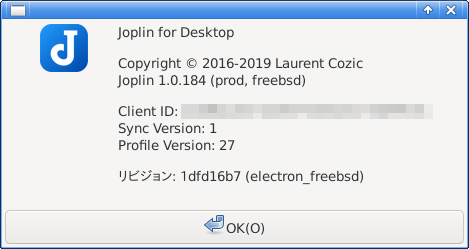
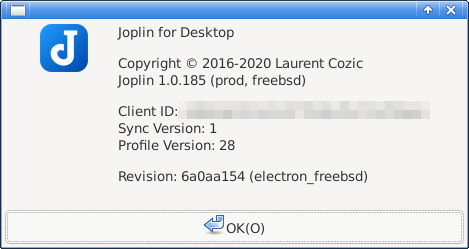
Update target Joplin version to 1.0.185.

diff --git a/playing-with-bsd/application/howto-use-joplin-on-freebsd/index.html b/playing-with-bsd/application/howto-use-joplin-on-freebsd/index.html
@@ -8,11 +8,11 @@
   <meta name="twitter:title" content="How to use Joplin desktop app on FreeBSD - genneko" />
   <meta name="description" content="This is a quick note on how I build and use the latest Joplin desktop app on FreeBSD.
 For my initial exploration of Joplin on FreeBSD, please refer to the previous post.
-Target Version The current target version of this article is Joplin Electron release v1.0.184 (Feb 2020). Building Joplin I take the following steps to build Joplin desktop on my FreeBSD 12.1-RELEASE system (with XFCE4 desktop).
+Target Version The current target version of this article is Joplin Electron release v1.0.185 (Feb 2020). Building Joplin I take the following steps to build Joplin desktop on my FreeBSD 12.1-RELEASE system (with XFCE4 desktop).
   Install dependencies such as Electron and Nodejs.">
   <meta property="og:description" content="This is a quick note on how I build and use the latest Joplin desktop app on FreeBSD.
 For my initial exploration of Joplin on FreeBSD, please refer to the previous post.
-Target Version The current target version of this article is Joplin Electron release v1.0.184 (Feb 2020). Building Joplin I take the following steps to build Joplin desktop on my FreeBSD 12.1-RELEASE system (with XFCE4 desktop).
+Target Version The current target version of this article is Joplin Electron release v1.0.185 (Feb 2020). Building Joplin I take the following steps to build Joplin desktop on my FreeBSD 12.1-RELEASE system (with XFCE4 desktop).
   Install dependencies such as Electron and Nodejs.">
   <meta name="twitter:description" content="This is a quick note on how I build and use the latest Joplin desktop app on FreeBSD.
 For my initial exploration of Joplin on FreeBSD, please refer to the previous post.
@@ -22,7 +22,7 @@ Target Version The current …">
   <meta property="og:url" content="https://genneko.github.io/playing-with-bsd/application/howto-use-joplin-on-freebsd/" />
   <meta property="og:type" content="article" />
   <meta name="twitter:card" content="summary" />
-  <meta name="generator" content="Hugo 0.63.2" />
+  <meta name="generator" content="Hugo 0.64.1" />
 
   <link rel="stylesheet" href="https://genneko.github.io/css/style.css" media="all" />
   <link rel="stylesheet" href="https://genneko.github.io/css/syntax.css" media="all" />
@@ -60,7 +60,7 @@ Target Version The current …">
       <ul class="article-meta">
         <li class="article-meta-date"><time>2020-01-15</time>
         
-        <span class="updated">Update: 2020-02-09</span>
+        <span class="updated">Update: 2020-02-23</span>
         
         </li>
         <li class="article-meta-tags">
@@ -103,7 +103,7 @@ Target Version The current …">
       <p>This is a quick note on how I build and use the latest Joplin desktop app on FreeBSD.</p>
 <p>For my initial exploration of Joplin on FreeBSD, please refer to the <a href="https://genneko.github.io/playing-with-bsd/application/joplin-on-freebsd">previous post</a>.</p>
 <h2 id="target-version">Target Version</h2>
-<p>The current target version of this article is Joplin Electron release v1.0.184 (Feb 2020).
+<p>The current target version of this article is Joplin Electron release v1.0.185 (Feb 2020).
 <img src="https://genneko.github.io/images/howto-use-joplin-on-freebsd/JoplinVersion.png" alt="Joplin Version"></p>
 <h2 id="building-joplin">Building Joplin</h2>
 <p>I take the following steps to build Joplin desktop on my FreeBSD 12.1-RELEASE system (with XFCE4 desktop).</p>
@@ -125,7 +125,7 @@ sudo ln -s electron7 electron
 <p>I had continued to use electron6 for a while even after Joplin switched to electron7, but it looked like the app ceased working correctly on v1.0.179 or later versions so I finally moved to electron7.</p>
 </blockquote>
 <p>Other dependencies can be installed from the FreeBSD&rsquo;s official packages.</p>
-<pre><code>sudo pkg install node10 npm-node10 python
+<pre><code>sudo pkg install node10 npm-node10 python vips
 </code></pre></li>
 <li>
 <p>Clone my forked version of Joplin and switch to electron_freebsd branch, which includes some modifications for FreeBSD.</p>
@@ -136,17 +136,18 @@ git checkout electron_freebsd
 </code></pre></li>
 <li>
 <p>Build the desktop (Electron) application by mostly following the <a href="https://github.com/laurent22/joplin/blob/master/BUILD.md#building-the-electron-application">original build instruction</a>.</p>
-<pre><code>npm install &amp;&amp; cd Tools &amp;&amp; npm install &amp;&amp; cd ..
-npm run copyLib
-npm run tsc
-cd ElectronClient/app
-npm install
-</code></pre></li>
+<pre><code>npm install
+cd ElectronClient
+npm run build
+</code></pre><blockquote>
+<p>I use <code>npm run build</code> instead of <code>npm run start</code> because it looks like the latter doesn&rsquo;t expect I&rsquo;m using the globally installed electron.</p>
+</blockquote>
+</li>
 <li>
 <p>Now you can run the app by running the following command</p>
 <pre><code>electron .
 </code></pre><p>or by running a script included in my fork</p>
-<pre><code>../joplin-desktop
+<pre><code>./joplin-desktop
 </code></pre></li>
 </ol>
 <h2 id="workaround-for-lsep-showing-up-in-cjk-input-methods">Workaround for LSEP showing up in CJK input methods</h2>
@@ -226,6 +227,7 @@ I changed selector from &lsquo;.ace_editor&rsquo; to &lsquo;div.ace_editor&rsquo
 <li>2020-01-15: Created</li>
 <li>2020-01-20: Updated the target version to 1.0.178</li>
 <li>2020-02-09: Updated the target version to 1.0.184 (Use pre-official electron7 package)</li>
+<li>2020-02-23: Updated the target version to 1.0.185 (Build steps were changed)</li>
 </ul>
 <section class="footnotes" role="doc-endnotes">
 <hr>

diff --git a/tags/installation/index.html b/tags/installation/index.html
@@ -11,7 +11,7 @@
   <meta property="og:url" content="https://genneko.github.io/tags/installation/" />
   <meta property="og:type" content="website" />
   <meta name="twitter:card" content="summary" />
-  <meta name="generator" content="Hugo 0.63.2" />
+  <meta name="generator" content="Hugo 0.64.1" />
   <link href="https://genneko.github.io/tags/installation/index.xml" rel="alternate" type="application/rss+xml" title="genneko" />
   <link href="https://genneko.github.io/tags/installation/index.xml" rel="feed" type="application/rss+xml" title="genneko" />
 
@@ -54,7 +54,7 @@
         <ul class="article-meta">
           <li class="article-meta-date"><time>2020-01-15</time>
           
-          <span class="updated">Update: 2020-02-09</span>
+          <span class="updated">Update: 2020-02-23</span>
           
           </li>
           <li class="article-meta-tags">
@@ -85,7 +85,7 @@
         <div class="article-content">
           This is a quick note on how I build and use the latest Joplin desktop app on FreeBSD.
 For my initial exploration of Joplin on FreeBSD, please refer to the previous post.
-Target Version The current target version of this article is Joplin Electron release v1.0.184 (Feb 2020). Building Joplin I take the following steps to build Joplin desktop on my FreeBSD 12.1-RELEASE system (with XFCE4 desktop).
+Target Version The current target version of this article is Joplin Electron release v1.0.185 (Feb 2020). Building Joplin I take the following steps to build Joplin desktop on my FreeBSD 12.1-RELEASE system (with XFCE4 desktop).
   Install dependencies such as Electron and Nodejs.
         </div>
         <div class="article-readmore"><a href="https://genneko.github.io/playing-with-bsd/application/howto-use-joplin-on-freebsd/">Read more...</a></div>

diff --git a/playing-with-bsd/index.html b/playing-with-bsd/index.html
@@ -14,7 +14,7 @@
   <meta property="og:url" content="https://genneko.github.io/playing-with-bsd/" />
   <meta property="og:type" content="website" />
   <meta name="twitter:card" content="summary" />
-  <meta name="generator" content="Hugo 0.63.2" />
+  <meta name="generator" content="Hugo 0.64.1" />
   <link href="https://genneko.github.io/playing-with-bsd/index.xml" rel="alternate" type="application/rss+xml" title="genneko" />
   <link href="https://genneko.github.io/playing-with-bsd/index.xml" rel="feed" type="application/rss+xml" title="genneko" />
 
@@ -62,7 +62,7 @@
         <ul class="article-meta">
           <li class="article-meta-date"><time>2020-01-15</time>
           
-          <span class="updated">Update: 2020-02-09</span>
+          <span class="updated">Update: 2020-02-23</span>
           
           </li>
           <li class="article-meta-tags">
@@ -93,7 +93,7 @@
         <div class="article-content">
           This is a quick note on how I build and use the latest Joplin desktop app on FreeBSD.
 For my initial exploration of Joplin on FreeBSD, please refer to the previous post.
-Target Version The current target version of this article is Joplin Electron release v1.0.184 (Feb 2020). Building Joplin I take the following steps to build Joplin desktop on my FreeBSD 12.1-RELEASE system (with XFCE4 desktop).
+Target Version The current target version of this article is Joplin Electron release v1.0.185 (Feb 2020). Building Joplin I take the following steps to build Joplin desktop on my FreeBSD 12.1-RELEASE system (with XFCE4 desktop).
   Install dependencies such as Electron and Nodejs.
         </div>
         <div class="article-readmore"><a href="https://genneko.github.io/playing-with-bsd/application/howto-use-joplin-on-freebsd/">Read more...</a></div>

diff --git a/tags/application/index.html b/tags/application/index.html
@@ -11,7 +11,7 @@
   <meta property="og:url" content="https://genneko.github.io/tags/application/" />
   <meta property="og:type" content="website" />
   <meta name="twitter:card" content="summary" />
-  <meta name="generator" content="Hugo 0.63.2" />
+  <meta name="generator" content="Hugo 0.64.1" />
   <link href="https://genneko.github.io/tags/application/index.xml" rel="alternate" type="application/rss+xml" title="genneko" />
   <link href="https://genneko.github.io/tags/application/index.xml" rel="feed" type="application/rss+xml" title="genneko" />
 
@@ -54,7 +54,7 @@
         <ul class="article-meta">
           <li class="article-meta-date"><time>2020-01-15</time>
           
-          <span class="updated">Update: 2020-02-09</span>
+          <span class="updated">Update: 2020-02-23</span>
           
           </li>
           <li class="article-meta-tags">
@@ -85,7 +85,7 @@
         <div class="article-content">
           This is a quick note on how I build and use the latest Joplin desktop app on FreeBSD.
 For my initial exploration of Joplin on FreeBSD, please refer to the previous post.
-Target Version The current target version of this article is Joplin Electron release v1.0.184 (Feb 2020). Building Joplin I take the following steps to build Joplin desktop on my FreeBSD 12.1-RELEASE system (with XFCE4 desktop).
+Target Version The current target version of this article is Joplin Electron release v1.0.185 (Feb 2020). Building Joplin I take the following steps to build Joplin desktop on my FreeBSD 12.1-RELEASE system (with XFCE4 desktop).
   Install dependencies such as Electron and Nodejs.
         </div>
         <div class="article-readmore"><a href="https://genneko.github.io/playing-with-bsd/application/howto-use-joplin-on-freebsd/">Read more...</a></div>

diff --git a/tags/freebsd/index.html b/tags/freebsd/index.html
@@ -11,7 +11,7 @@
   <meta property="og:url" content="https://genneko.github.io/tags/freebsd/" />
   <meta property="og:type" content="website" />
   <meta name="twitter:card" content="summary" />
-  <meta name="generator" content="Hugo 0.63.2" />
+  <meta name="generator" content="Hugo 0.64.1" />
   <link href="https://genneko.github.io/tags/freebsd/index.xml" rel="alternate" type="application/rss+xml" title="genneko" />
   <link href="https://genneko.github.io/tags/freebsd/index.xml" rel="feed" type="application/rss+xml" title="genneko" />
 
@@ -54,7 +54,7 @@
         <ul class="article-meta">
           <li class="article-meta-date"><time>2020-01-15</time>
           
-          <span class="updated">Update: 2020-02-09</span>
+          <span class="updated">Update: 2020-02-23</span>
           
           </li>
           <li class="article-meta-tags">
@@ -85,7 +85,7 @@
         <div class="article-content">
           This is a quick note on how I build and use the latest Joplin desktop app on FreeBSD.
 For my initial exploration of Joplin on FreeBSD, please refer to the previous post.
-Target Version The current target version of this article is Joplin Electron release v1.0.184 (Feb 2020). Building Joplin I take the following steps to build Joplin desktop on my FreeBSD 12.1-RELEASE system (with XFCE4 desktop).
+Target Version The current target version of this article is Joplin Electron release v1.0.185 (Feb 2020). Building Joplin I take the following steps to build Joplin desktop on my FreeBSD 12.1-RELEASE system (with XFCE4 desktop).
   Install dependencies such as Electron and Nodejs.
         </div>
         <div class="article-readmore"><a href="https://genneko.github.io/playing-with-bsd/application/howto-use-joplin-on-freebsd/">Read more...</a></div>

diff --git a/tags/font/index.html b/tags/font/index.html
@@ -11,7 +11,7 @@
   <meta property="og:url" content="https://genneko.github.io/tags/font/" />
   <meta property="og:type" content="website" />
   <meta name="twitter:card" content="summary" />
-  <meta name="generator" content="Hugo 0.63.2" />
+  <meta name="generator" content="Hugo 0.64.1" />
   <link href="https://genneko.github.io/tags/font/index.xml" rel="alternate" type="application/rss+xml" title="genneko" />
   <link href="https://genneko.github.io/tags/font/index.xml" rel="feed" type="application/rss+xml" title="genneko" />
 
@@ -54,7 +54,7 @@
         <ul class="article-meta">
           <li class="article-meta-date"><time>2020-01-15</time>
           
-          <span class="updated">Update: 2020-02-09</span>
+          <span class="updated">Update: 2020-02-23</span>
           
           </li>
           <li class="article-meta-tags">
@@ -85,7 +85,7 @@
         <div class="article-content">
           This is a quick note on how I build and use the latest Joplin desktop app on FreeBSD.
 For my initial exploration of Joplin on FreeBSD, please refer to the previous post.
-Target Version The current target version of this article is Joplin Electron release v1.0.184 (Feb 2020). Building Joplin I take the following steps to build Joplin desktop on my FreeBSD 12.1-RELEASE system (with XFCE4 desktop).
+Target Version The current target version of this article is Joplin Electron release v1.0.185 (Feb 2020). Building Joplin I take the following steps to build Joplin desktop on my FreeBSD 12.1-RELEASE system (with XFCE4 desktop).
   Install dependencies such as Electron and Nodejs.
         </div>
         <div class="article-readmore"><a href="https://genneko.github.io/playing-with-bsd/application/howto-use-joplin-on-freebsd/">Read more...</a></div>

diff --git a/index.html b/index.html
@@ -11,7 +11,7 @@
   <meta property="og:url" content="https://genneko.github.io/" />
   <meta property="og:type" content="website" />
   <meta name="twitter:card" content="summary" />
-  <meta name="generator" content="Hugo 0.63.2" />
+  <meta name="generator" content="Hugo 0.64.1" />
   <link href="https://genneko.github.io/index.xml" rel="alternate" type="application/rss+xml" title="genneko" />
   <link href="https://genneko.github.io/index.xml" rel="feed" type="application/rss+xml" title="genneko" />
 
@@ -57,7 +57,7 @@
               
               <li><time>2020-01-15</time> - <a href="https://genneko.github.io/playing-with-bsd/application/howto-use-joplin-on-freebsd/">How to use Joplin desktop app on FreeBSD</a>
                   
-                  <span class="updated">Update: 2020-02-09</span>
+                  <span class="updated">Update: 2020-02-23</span>
                   
               
               <li><time>2019-11-17</time> - <a href="https://genneko.github.io/playing-with-bsd/storage/expanding-zfs-on-geli/">Expanding a GELI-encrypted ZFS pool</a>

diff --git a/playing-with-bsd/networking/freebsd-wireguard-quicklook/index.html b/playing-with-bsd/networking/freebsd-wireguard-quicklook/index.html
@@ -18,7 +18,7 @@ This time I focused on site-to-site VPN setup. Maybe I will try remote-access VP
   <meta property="og:url" content="https://genneko.github.io/playing-with-bsd/networking/freebsd-wireguard-quicklook/" />
   <meta property="og:type" content="article" />
   <meta name="twitter:card" content="summary" />
-  <meta name="generator" content="Hugo 0.63.2" />
+  <meta name="generator" content="Hugo 0.64.1" />
 
   <link rel="stylesheet" href="https://genneko.github.io/css/style.css" media="all" />
   <link rel="stylesheet" href="https://genneko.github.io/css/syntax.css" media="all" />

diff --git a/playing-with-bsd/storage/mounting-from-zfs-failed/index.html b/playing-with-bsd/storage/mounting-from-zfs-failed/index.html
@@ -19,7 +19,7 @@ Mounting from zfs:zroot/ROOT/default failed with error 6; retrying for 3 more se
   <meta property="og:url" content="https://genneko.github.io/playing-with-bsd/storage/mounting-from-zfs-failed/" />
   <meta property="og:type" content="article" />
   <meta name="twitter:card" content="summary" />
-  <meta name="generator" content="Hugo 0.63.2" />
+  <meta name="generator" content="Hugo 0.64.1" />
 
   <link rel="stylesheet" href="https://genneko.github.io/css/style.css" media="all" />
   <link rel="stylesheet" href="https://genneko.github.io/css/syntax.css" media="all" />

diff --git a/playing-with-bsd/networking/freebsd-vti-ipsec/index.html b/playing-with-bsd/networking/freebsd-vti-ipsec/index.html
@@ -18,7 +18,7 @@ Prerequisite  FreeBSD-11.1-RC3/amd64 Generic kernel No special packages/ports (j
   <meta property="og:url" content="https://genneko.github.io/playing-with-bsd/networking/freebsd-vti-ipsec/" />
   <meta property="og:type" content="article" />
   <meta name="twitter:card" content="summary" />
-  <meta name="generator" content="Hugo 0.63.2" />
+  <meta name="generator" content="Hugo 0.64.1" />
 
   <link rel="stylesheet" href="https://genneko.github.io/css/style.css" media="all" />
   <link rel="stylesheet" href="https://genneko.github.io/css/syntax.css" media="all" />

diff --git a/playing-with-bsd/storage/growing-a-zfs-mirror/index.html b/playing-with-bsd/storage/growing-a-zfs-mirror/index.html
@@ -19,7 +19,7 @@ Originally it had two 500GB disks, but now it has a 500GB and a 1TB ones …">
   <meta property="og:url" content="https://genneko.github.io/playing-with-bsd/storage/growing-a-zfs-mirror/" />
   <meta property="og:type" content="article" />
   <meta name="twitter:card" content="summary" />
-  <meta name="generator" content="Hugo 0.63.2" />
+  <meta name="generator" content="Hugo 0.64.1" />
 
   <link rel="stylesheet" href="https://genneko.github.io/css/style.css" media="all" />
   <link rel="stylesheet" href="https://genneko.github.io/css/syntax.css" media="all" />

diff --git a/playing-with-bsd/storage/gmirror-to-zfs/index.html b/playing-with-bsd/storage/gmirror-to-zfs/index.html
@@ -22,7 +22,7 @@ After several rehearsals on a VM, I have finally achieved that goal with the fol
   <meta property="og:url" content="https://genneko.github.io/playing-with-bsd/storage/gmirror-to-zfs/" />
   <meta property="og:type" content="article" />
   <meta name="twitter:card" content="summary" />
-  <meta name="generator" content="Hugo 0.63.2" />
+  <meta name="generator" content="Hugo 0.64.1" />
 
   <link rel="stylesheet" href="https://genneko.github.io/css/style.css" media="all" />
   <link rel="stylesheet" href="https://genneko.github.io/css/syntax.css" media="all" />
